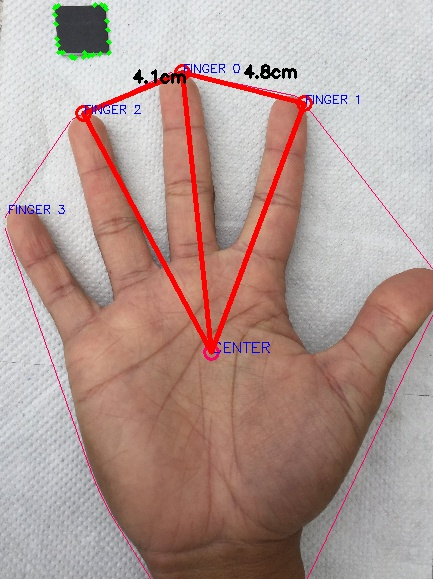
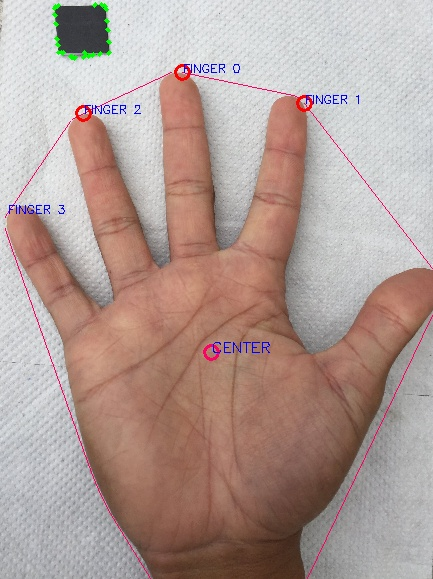
hand verification on image and computing score

Changed region(s): [[0.1801, 0.0933, 0.7206, 0.6218]]

diff --git a/utils/utils.py b/utils/utils.py
@@ -1,6 +1,6 @@
 import cv2
 import numpy as np
-from scipy.spatial.distance import euclidean
+from scipy.spatial.distance import euclidean, cosine
 from sklearn.metrics import pairwise
 
 def resizing_img(src_img, scale_percent=50):
@@ -76,8 +76,8 @@ def preprocess_img(src_img):
 
     # create a binary image with where white will be skin colores and rest is black
     # perform basic thresholding operation based on the range of pixel values in the HSV colorspace
-    lower = np.array([2,50,50], dtype="uint8")
-    upper = np.array([15,255,255], dtype="uint8")
+    lower = np.array([2,20,20], dtype="uint8")
+    upper = np.array([255,255,255], dtype="uint8")
     skin_region_hsv = cv2.inRange(hsv_img, lower, upper)
 
     # kernel matrices for morphological transformation
@@ -225,7 +225,7 @@ def extract_features(roi, thresholded, segmented):
     # get defect points and draw them in the original image
     far_detects = []
     counter = 0
-
+                  
     for i in range(defects.shape[0]):
         s,e,f,d = defects[i,0]
         start = tuple(segmented[s][0])
@@ -236,7 +236,7 @@ def extract_features(roi, thresholded, segmented):
         a = np.sqrt((end[0] - start[0]) ** 2 + (end[1] - start[1]) ** 2)
         b = np.sqrt((far[0] - start[0]) ** 2 + (far[1] - start[1]) ** 2)
         c = np.sqrt((end[0] - far[0]) ** 2 + (end[1] - far[1]) ** 2)
-        angle = np.arccos((b ** 2 + c ** 2 - a ** 2) / (2 * b * c)) # cosine theorem
+        angle = np.arccos((b ** 2 + c ** 2 - a ** 2) / (2 * b * c)) #cosine theorem
         
         four_far_detects = []
         if angle <= np.pi/2:
@@ -293,3 +293,97 @@ def extract_features(roi, thresholded, segmented):
     signature.append(contours_perimeter)
 
     return signature
+
+def compute_signature(roi):
+
+    roi_resized = resizing_img(roi, 100)
+    roi_contour = edge_detection(roi_resized)
+    roi_segmented = preprocess_img(roi_resized)
+
+
+    # find features of contours of the filtered frame
+    contours, hierarchy = cv2.findContours(roi_segmented, cv2.RETR_TREE, cv2.CHAIN_APPROX_SIMPLE)
+
+    # find max contour area (assume that hand is in the frame)
+    max_area = 100
+    ci = 0	
+    cnt = 0
+    for i in range(len(contours)):
+        cnt = contours[i]
+        area = cv2.contourArea(cnt)
+        if(area > max_area):
+            max_area = area
+            ci = i  
+
+    # largest area contour 			  
+    cnts = contours[ci]
+
+    # find convex hull
+    hull = cv2.convexHull(cnts)
+    
+    # find convex defects
+    hull2 = cv2.convexHull(cnts, returnPoints=False)
+    defects = cv2.convexityDefects(cnts, hull2)
+
+    # get defect points and draw them in the original image
+    far_detect = []
+    for i in range(defects.shape[0]):
+        s,e,f,d = defects[i,0]
+        start = tuple(cnts[s][0])
+        end = tuple(cnts[e][0])
+        far = tuple(cnts[f][0])
+        far_detect.append(far)
+        
+        cv2.line(roi, start, end, [100,0,255], 1)
+
+    moments = cv2.moments(cnts)
+    if moments['m00']!=0:
+        cx = int(moments['m10'] / moments['m00']) 
+        cy = int(moments['m01'] / moments['m00'])
+    center_mass = (cx, cy)
+    
+    font = cv2.FONT_HERSHEY_SIMPLEX
+
+    # get fingertip points from contour hull if points are proximity of 80 pixels, consider a single point in the group
+    finger = []
+    for i in range(0, len(hull)-1):
+        if (np.absolute(hull[i][0][0] - hull[i+1][0][0]) > 80) or ( np.absolute(hull[i][0][1] - hull[i+1][0][1]) > 80):
+            if hull[i][0][1] < 500 :
+                finger.append(hull[i][0])
+
+    # The fingertip points are 5 hull points with largest y coordinates
+    finger = sorted(finger, key=lambda x: x[1])
+    fingers = finger[0:5]
+    fingers_list = []
+    middle_point = []
+
+    for j in range(0, len(fingers)):
+        fingers_list.append((fingers[j][0], fingers[j][1]))
+    
+    # draw center max
+    cv2.circle(roi, center_mass, 7, [100,0,255], 2)
+    cv2.putText(roi,'Center', tuple(center_mass), font, 0.5, (255,0,0), 1) 
+
+    signature = []
+    for j in range(0, len(fingers_list)):
+        
+        distance_finger_to_centermass = euclidean(fingers_list[j], center_mass)
+        signature.append(distance_finger_to_centermass)
+
+        cv2.line(roi, fingers_list[j], center_mass, [0,255,0], 1)
+        cv2.circle(roi, fingers_list[j], 7, [0,0,255], 1)
+        cv2.putText(roi,'FINGER '+str(j), tuple(finger[j]),cv2.FONT_HERSHEY_SIMPLEX,0.4,(255,0,0),1) 
+
+    contours_perimeter = cv2.arcLength(cnt, True)
+    signature.append(contours_perimeter)
+ 
+    return roi_segmented, roi, signature
+
+
+
+# function to compute distance between two vectores
+
+def compare_signature(src_sample, dst_sample):
+
+    score = cosine(src_sample, dst_sample)
+    return score

diff --git a/handverification.py b/handverification.py
@@ -1,7 +1,6 @@
 
 # import the necessary packages
 from utils.utils import *
-from yolo import YOLO
 from imutils.video import FPS
 from imutils.video import WebcamVideoStream
 import numpy as np 
@@ -17,9 +16,6 @@ def main():
         help="# of frames to loop over the video.")
     ap.add_argument("-d", "--display", type=bool, default=True,
         help="whatever or not frames should be displayed")
-    ap.add_argument('-s', '--size', default=416, help='size for yolo')
-    ap.add_argument('-c', '--confidence', default=0.2, 
-        help='confidence for yolo')
 
     args = vars(ap.parse_args())
 
@@ -30,12 +26,6 @@ def main():
     height_img, width_img = (None, None)
     cnt = 1
 
-    # load the yolo models
-    #yolo = YOLO("models/cross-hands-tiny.cfg", "models/cross-hands-tiny.weights", ["hand"])
-    yolo = YOLO("models/cross-hands-tiny-prn.cfg", "models/cross-hands-tiny-prn.weights", ["hand"])
-    yolo.size = int(args["size"])
-    yolo.confidence = float(args["confidence"])
-
     try:
         # loop over somes frames 
         while fps._numFrames < args["num_frames"]:
@@ -44,23 +34,7 @@ def main():
             # with of 400 pixels
 
             frame = vs.read()
-            frame = imutils.resize(frame, width=600)
-
-            try:
-                # call for inference
-                width, height, inference_time, results = yolo.inference(frame)
-            except:
-                print("Error, cannot do the inference")
-            
-            for detection in results:
-                
-                id, name, confidence, x, y, w, h = detection
-                cx = x + (w/2)
-                cy = y + (h/2)
-
-                # draw a bouding box rectangle and label on the image
-                cv2.rectangle(frame, (x, y), (x + w, y + h), (0, 255, 255), 2)
-                #cropped_frame = frame[x:x+h, y:y+w]
+            frame = imutils.resize(frame, width=1200)
 
             cv2.imwrite('images/image'+str(cnt)+'.jpg', frame)
             cnt +=1
@@ -68,7 +42,6 @@ def main():
             # check to see if the frame should be displayed to our screen
             if args["display"] == True:
                 
-                edged_frame = edge_detection(frame)
 
                 cv2.imshow("HAND DETECTION", frame)
 
@@ -76,12 +49,15 @@ def main():
             
             # update the fps counter
             fps.update()
-
+        
         # stop the timer and display FPS information
         fps.stop()
+        
         print("[INFO] elasped time: {:.2f}".format(fps.elapsed()))
         print("[INFO] approx. FPS: {:.2f}".format(fps.fps()))
         
+        
+
         # do a bit of cleanup
         cv2.destroyAllWindows()
         vs.stop()
@@ -89,6 +65,26 @@ def main():
     except KeyboardInterrupt:
         print("Average FPS: ", str("{0:.2f}".format(fps)))
 
+    img = cv2.imread("images/05.jpg")
+    roi_segmented, roi, computed_signature = compute_signature(img)
+    
+    print("[INFO] signature : ", computed_signature)
 
+    true_signature = [420.48751503547584, 396.528832913388, 397.1073086929854, 364.9448993993441, 24.97056245803833]
+    score = compare_signature(true_signature, computed_signature)
+    
+    print("[INFO] score = ", score)
+
+    if score <= 0.33:
+        print("[INFO] AUTHORISED ACCESS")
+    else :
+        
+        print("[INFO] ACCESS DENIED")
+    
+    cv2.imshow("Result", img) 
+    cv2.imshow("Segmented", roi_segmented)
+    cv2.waitKey(0)
+    cv2.destroyAllWindows()
+    
 if __name__ == main():
     main()

diff --git a/fingermeasurement.py b/fingermeasurement.py
@@ -49,7 +49,7 @@ def main():
     dist_in_pixel = euclidean(tl, tr)
     dist_in_cm = 2
     pixel_per_cm = dist_in_pixel/dist_in_cm
-    print("Pixel per cm = ", pixel_per_cm)
+    print("Pixel per cm =", pixel_per_cm)
 
     # find features of contours of the filtered frame
     contours, hierarchy = cv2.findContours(bin_img2, cv2.RETR_TREE, cv2.CHAIN_APPROX_SIMPLE)   
@@ -65,7 +65,7 @@ def main():
             max_area = area
             ci = i  
             
-	# largest area contour 			  
+    # largest area contour 			  
     cnts = contours[ci]
 
     # find convex hull
@@ -135,19 +135,19 @@ def main():
     cv2.circle(resized_img, fingers_list[2], 7, [0,0,255], 2)
     
     # draw line between corresponding lines
-    cv2.line(resized_img, fingers_list[0], fingers_list[1], [0,0,255], 3)
-    cv2.line(resized_img, fingers_list[0], fingers_list[2], [0,0,255], 3)
-    cv2.line(resized_img, fingers_list[0], center_mass, [0,0,255], 3)
-    cv2.line(resized_img, fingers_list[1], center_mass, [0,0,255], 3)
-    cv2.line(resized_img, fingers_list[2], center_mass, [0,0,255], 3)
+    #cv2.line(resized_img, fingers_list[0], fingers_list[1], [0,0,255], 3)
+    #cv2.line(resized_img, fingers_list[0], fingers_list[2], [0,0,255], 3)
+    #cv2.line(resized_img, fingers_list[0], center_mass, [0,0,255], 3)
+    #cv2.line(resized_img, fingers_list[1], center_mass, [0,0,255], 3)
+    #cv2.line(resized_img, fingers_list[2], center_mass, [0,0,255], 3)
     
     # compute distance between the tring finger and the middle finger
     dc0c1 = euclidean(fingers_list[0], fingers_list[1]) / pixel_per_cm
     dc0c2 = euclidean(fingers_list[0], fingers_list[2]) / pixel_per_cm
     
     # show distance on the midlle of line between fingers
-    cv2.putText(resized_img, "{:.1f}cm".format(dc0c1), (int(mc0c1X), int(mc0c1Y - 10)), font, 0.55, [0,0,0], 2)
-    cv2.putText(resized_img, "{:.1f}cm".format(dc0c2), (int(mc0c2X), int(mc0c2Y - 10)), font, 0.55, [0,0,0], 2)
+    #cv2.putText(resized_img, "{:.1f}cm".format(dc0c1), (int(mc0c1X), int(mc0c1Y - 10)), font, 0.55, [0,0,0], 2)
+    #cv2.putText(resized_img, "{:.1f}cm".format(dc0c2), (int(mc0c2X), int(mc0c2Y - 10)), font, 0.55, [0,0,0], 2)
 
     # show height raised fingers
     for k in range(0, len(fingers)):
@@ -162,7 +162,7 @@ def main():
     cv2.imwrite("images/hsv_img.jpg", bin_img2)
     cv2.imwrite("images/result_img.jpg", resized_img)
 
-    cv2.waitKey(0)
+roi_edged    cv2.waitKey(0)
     cv2.destroyAllWindows()
 
 if __name__ == main():

diff --git a/segment.py b/segment.py
@@ -29,7 +29,7 @@ if __name__ == "__main__":
         (grabbed, frame) = camera.read()
 
         # resize the frameclonecloneclone
-        frame = imutils.resize(frame, width=800)
+        frame = imutils.resize(frame, width=200)
 
         # flip the frame so that it is not the mirror view
         frame = cv2.flip(frame, 1)
